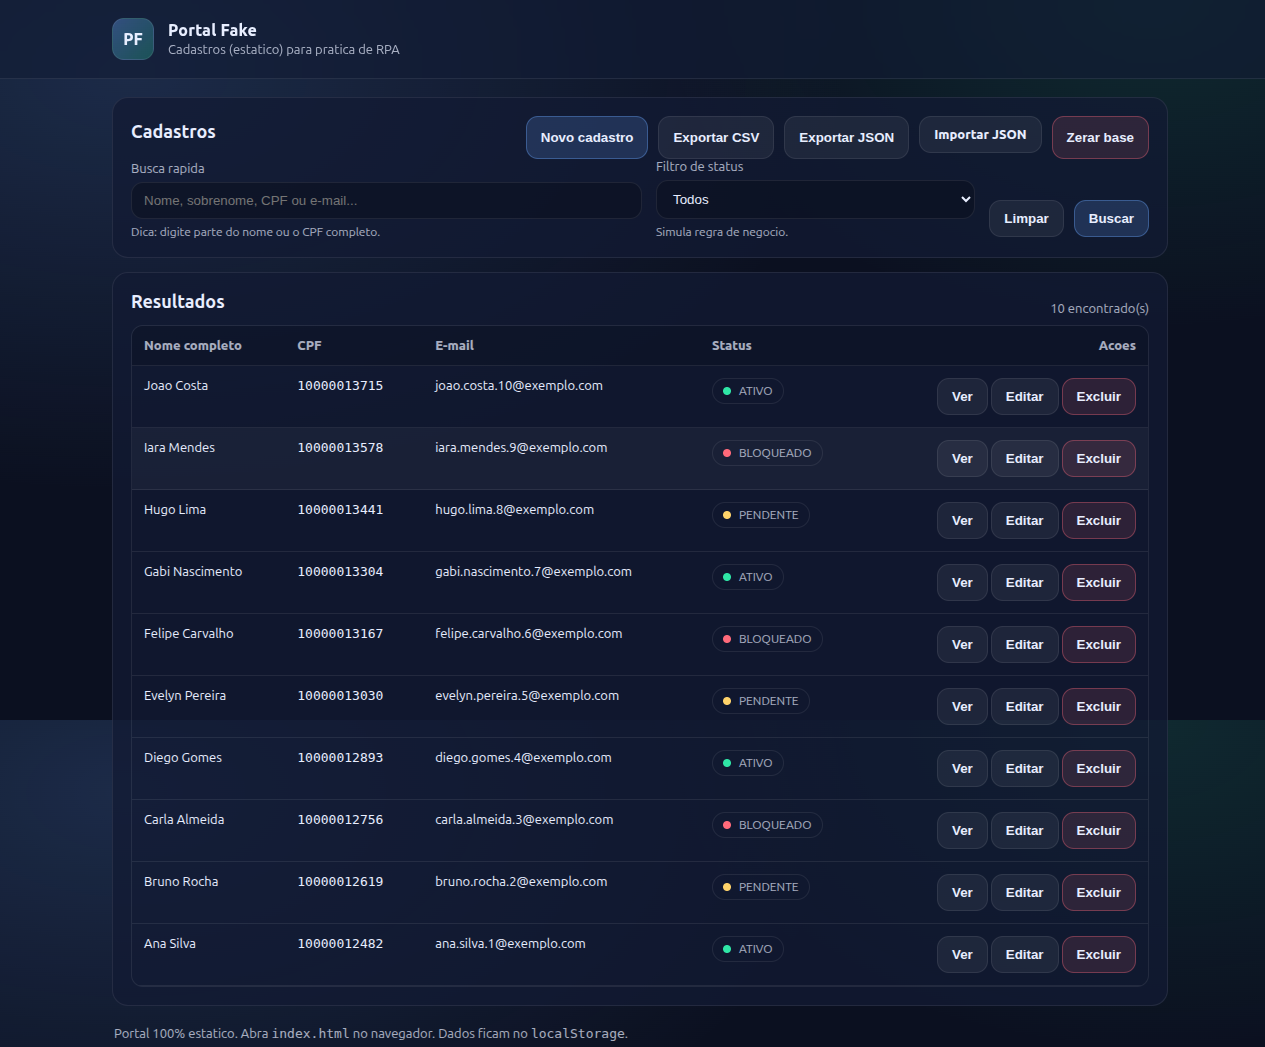
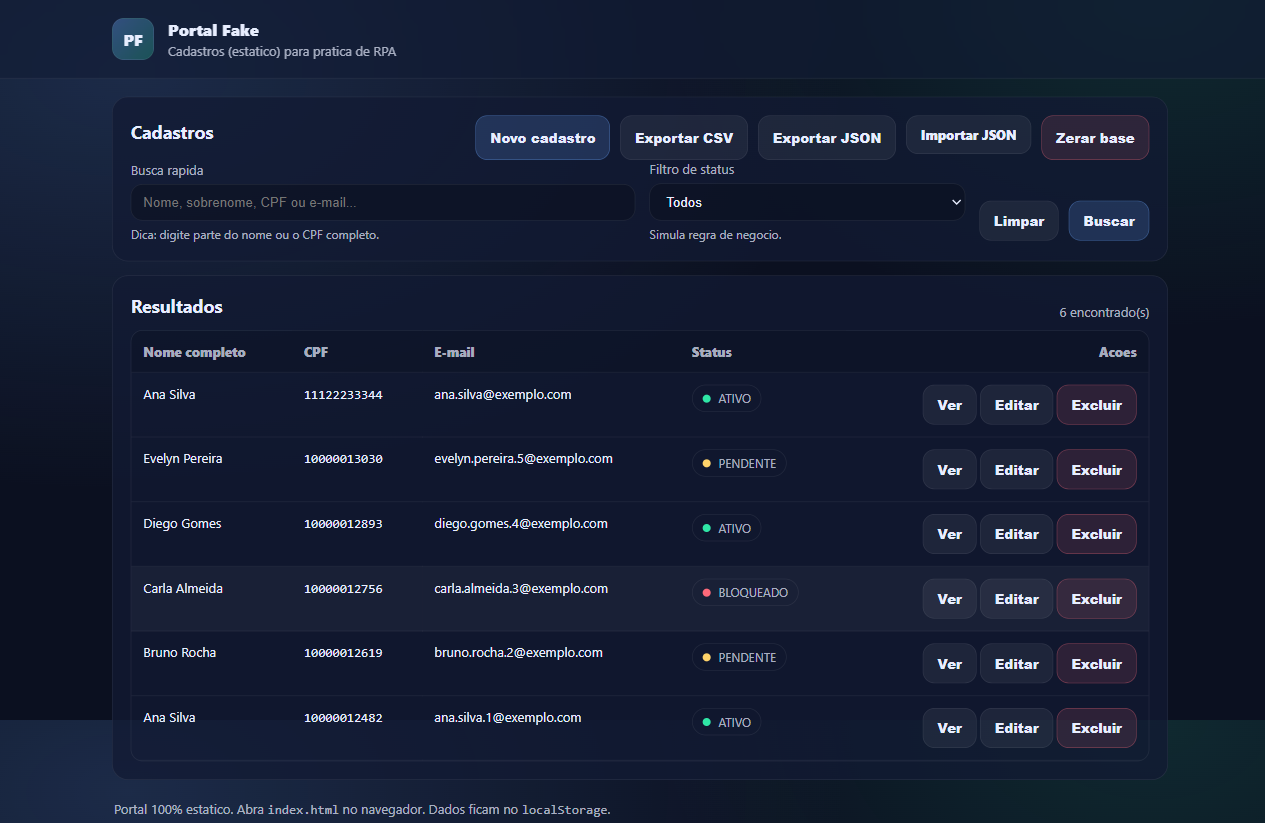
feat: integracao dos modulos no orquestrador e correcao de conflitos do merge

diff --git a/HyperAutomation/source/orquestrador.py b/HyperAutomation/source/orquestrador.py
@@ -16,12 +16,9 @@ from common.extracao import extrair_dados, extrair_todos_dados
 from common.documento_email import criar_documento, enviar_email
 from processo_atendimento.gestor_arquivos import GestorArquivos
 from processo_atendimento.resposta_cliente import NotificadorCliente
-<<<<<<< HEAD
-=======
 from processo_atendimento.leitor_email import LeitorEmail
 from processo_atendimento.validador_docs import ValidadorDocumentos
 from processo_atendimento.portal_integracao import PortalIntegracao
->>>>>>> feature/atendimento-email-validacao
 
 def main():
     # Inicializa conexão com o BotCity Maestro SDK (se executado via Runner)
@@ -98,15 +95,6 @@ def executar_orquestracao(modo="unico", row_index=0, email_destino="carvalhosann
     5. NotificadorCliente: Dispara e-mail em HTML com o status (Aprovado ou Pendente).
     6. GestorArquivos: Organiza a movimentação física dos arquivos (OK -> Encaminhados / Pendentes).
     """
-<<<<<<< HEAD
-    print("=" * 65)
-    print("INICIANDO ORQUESTRAÇÃO RPA COMPLETA (HYPERAUTOMATION - PROCESSO 1)")
-    print("=" * 65)
-
-    # 0. Inicializa Módulos do Processo 1 (Gestor ERP e Notificador)
-    gestor_erp = GestorArquivos()
-    gestor_erp.garantir_estrutura_pastas()
-=======
     print("=" * 70)
     print("INICIANDO ORQUESTRAÇÃO HYPERAUTOMATION - PROCESSO 1 (ATENDIMENTO)")
     print("=" * 70)
@@ -116,15 +104,11 @@ def executar_orquestracao(modo="unico", row_index=0, email_destino="carvalhosann
     gestor_erp = GestorArquivos()
     gestor_erp.garantir_estrutura_pastas()
     
->>>>>>> feature/atendimento-email-validacao
     notificador = NotificadorCliente()
     if remetente and senha:
         notificador.remetente = remetente
         notificador.senha = senha
 
-<<<<<<< HEAD
-    usuarios = carregar_usuarios()
-=======
     leitor_email = LeitorEmail(download_dir=gestor_erp.dir_downloads)
     validador = ValidadorDocumentos()
     portal_integracao = PortalIntegracao()
@@ -137,7 +121,6 @@ def executar_orquestracao(modo="unico", row_index=0, email_destino="carvalhosann
     # 2. Execução da Automação Web via Playwright (Portal Fake)
     screenshots_dir = PATH_ROOT / "resources" / "screenshots"
     screenshots_dir.mkdir(parents=True, exist_ok=True)
->>>>>>> feature/atendimento-email-validacao
 
     with sync_playwright() as p:
         context = p.chromium.launch_persistent_context(
@@ -255,58 +238,9 @@ def executar_orquestracao(modo="unico", row_index=0, email_destino="carvalhosann
 
         context.close()
 
-<<<<<<< HEAD
-    # 3. Geração de documentos, organização no ERP e envio de notificação ao cliente
-    for i, cliente in enumerate(lista_clientes, start=1):
-        nome_completo = f"{cliente.get('Nome')} {cliente.get('Sobrenome')}"
-        protocolo = f"2026-{i:04d}"
-        print(f"\n[Etapa 3 - Cliente {i}/{len(lista_clientes)}] Processando: {nome_completo} (Protocolo: #{protocolo})")
-        
-        # Geração da Ficha Word
-        arquivo_docx = criar_documento(cliente)
-        path_docx = Path(arquivo_docx)
-        print(f"  Documento Word gerado: {path_docx.name}")
-
-        # Movimentação física no ERP Simulado
-        # Coloca em Downloads e em seguida move para Documentos_OK
-        dest_downloads = gestor_erp.dir_downloads / path_docx.name
-        if path_docx.exists():
-            import shutil
-            shutil.copy(str(path_docx), str(dest_downloads))
-            gestor_erp.mover_para_status(path_docx.name, status_ok=True)
-            gestor_erp.mover_para_encaminhados(path_docx.name)
-
-        # Postar o documento como artefato no BotCity Maestro se estiver online
-        if maestro and maestro.is_online and task_id:
-            try:
-                maestro.post_artifact(
-                    task_id=task_id,
-                    artifact_name=path_docx.name,
-                    filepath=str(path_docx)
-                )
-                print(f"  Artefato publicado no BotCity Maestro: {path_docx.name}")
-            except Exception as e_art:
-                print(f"  Aviso: Nao foi possivel enviar artefato ao Maestro: {e_art}")
-
-        # Notificação HTML via NotificadorCliente
-        print(f"  Enviando notificação por e-mail para {email_destino}...")
-        try:
-            notificador.enviar_resposta(
-                email_destino=email_destino,
-                protocolo=protocolo,
-                aprovado=True
-            )
-            # Envio legado do anexo .docx
-            enviar_email(email_destino, arquivo_docx, apagar_apos_envio=True, remetente=remetente, senha=senha)
-        except Exception as e:
-            print(f"  Aviso: Falha no processo de notificação do cliente {nome_completo}: {e}")
-
-    print("\nORQUESTRAÇÃO FINALIZADA COM SUCESSO!")
-=======
     print("\n" + "=" * 70)
     print("ORQUESTRAÇÃO DO PROCESSO 1 FINALIZADA COM SUCESSO!")
     print("=" * 70)
->>>>>>> feature/atendimento-email-validacao
 
 if __name__ == "__main__":
     main()

diff --git a/HyperAutomation/source/processo_atendimento/resposta_cliente.py b/HyperAutomation/source/processo_atendimento/resposta_cliente.py
@@ -14,8 +14,15 @@ class NotificadorCliente:
         Classe responsável por enviar e-mails de resposta automática aos clientes.
         """
         def __init__(self):
-            self.smtp_server = os.getenv("SMTP_SERVER", "smtp.gmail.com")
-            self.smtp_port = int(os.getenv("SMTP_PORT", 587))
+            smtp_server_env = os.getenv("SMTP_SERVER")
+            self.smtp_server = smtp_server_env if smtp_server_env else "smtp.gmail.com"
+
+            smtp_port_env = os.getenv("SMTP_PORT")
+            if smtp_port_env and smtp_port_env.strip().isdigit():
+                self.smtp_port = int(smtp_port_env.strip())
+            else:
+                self.smtp_port = 587
+
             self.remetente = os.getenv("EMAIL_REMETENTE")
             self.senha = os.getenv("EMAIL_SENHA")
 
